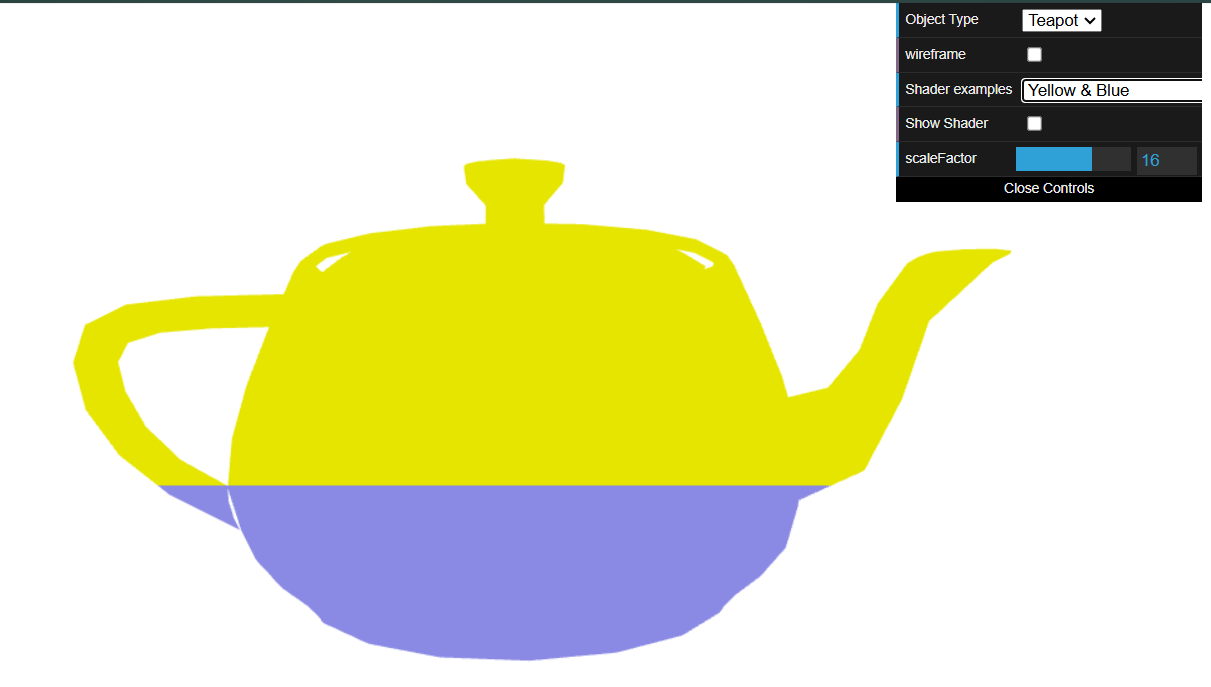
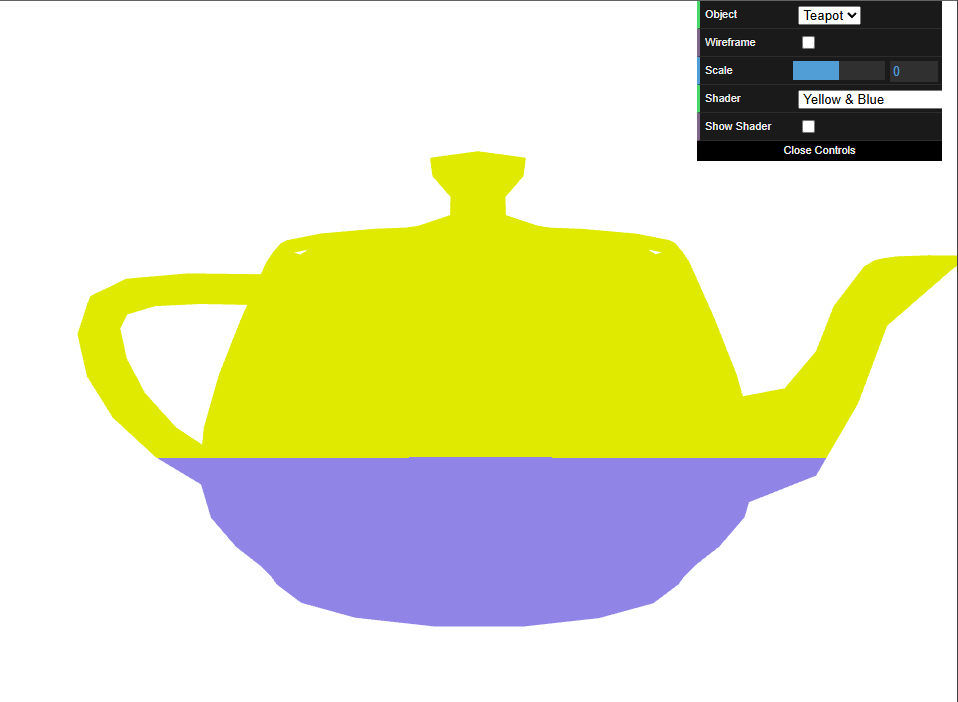
feat(tp5): update README

Changed region(s): [[0.0, 0.0, 1.0, 1.0]]

diff --git a/tp5/MyInterface.js b/tp5/MyInterface.js
@@ -21,23 +21,26 @@ export class MyInterface extends CGFinterface {
             .add(this.scene, 'selectedObject', Object.keys(this.scene.objects))
             .onChange(this.scene.onSelectedObjectChanged.bind(this.scene))
             .name('Object');
+
         this.gui
             .add(this.scene, 'wireframe')
             .name('Wireframe')
             .onChange(this.scene.onWireframeChanged.bind(this.scene));
 
         this.gui
+            .add(this.scene, 'scaleFactor', -50, 50)
+            .name('Scale')
+            .onChange(this.scene.onScaleFactorChanged.bind(this.scene));
+
+        this.gui
             .add(this.scene, 'selectedShader', Object.keys(this.scene.shaders))
-            .name('Shaders')
+            .name('Shader')
             .onChange(this.scene.onSelectedShaderChanged.bind(this.scene));
+
         this.gui
             .add(this.scene, 'showShaderCode')
             .name('Show Shader Code')
             .onChange(this.scene.onShaderCodeVizChanged.bind(this.scene));
-
-        this.gui
-            .add(this.scene, 'scaleFactor', -50, 50)
-            .onChange(this.scene.onScaleFactorChanged.bind(this.scene));
 
         return true;
     }

diff --git a/tp5/MyScene.js b/tp5/MyScene.js
@@ -76,7 +76,9 @@ export class MyScene extends CGFscene {
         this.texture2 = new CGFtexture(this, 'textures/FEUP.jpg');
 
         // apply the material to all objects
-        Object.values(this.objects).forEach((object) => object.material = material);
+        Object.values(this.objects).forEach(
+            (object) => (object.material = material),
+        );
 
         // shaders
         this.shaders = {

diff --git a/tp5/README.md b/tp5/README.md
@@ -1,1 +1,17 @@
-# [COPY FROM PREVIOUS TP AND ADJUST]
+# CG 2024/2025
+
+## Group T04G06
+
+## TP 5 Notes
+
+In the final practical assignment, we learned how to use **shaders**. There are two types of shaders: **vertex** and **fragment** shaders.
+
+- In exercise 1, we created a fragment shader to color an object's vertices according to their position on the screen: yellow if they appear on the upper half ($y > 0.5$), blue otherwise. Then, we created the respective vertex shader to alter the position of the vertices.
+
+| ![Figure 1](screenshots/cg-t04g06-tp5-1.png) |
+| :------------------------------------------: |
+|    **Figure 1:** A blue and yellow teapot    |
+
+| ![Figure 2](screenshots/cg-t04g06-tp5-2.png) |
+| :------------------------------------------: |
+|       **Figure 2:** A grayscale teapot       |
